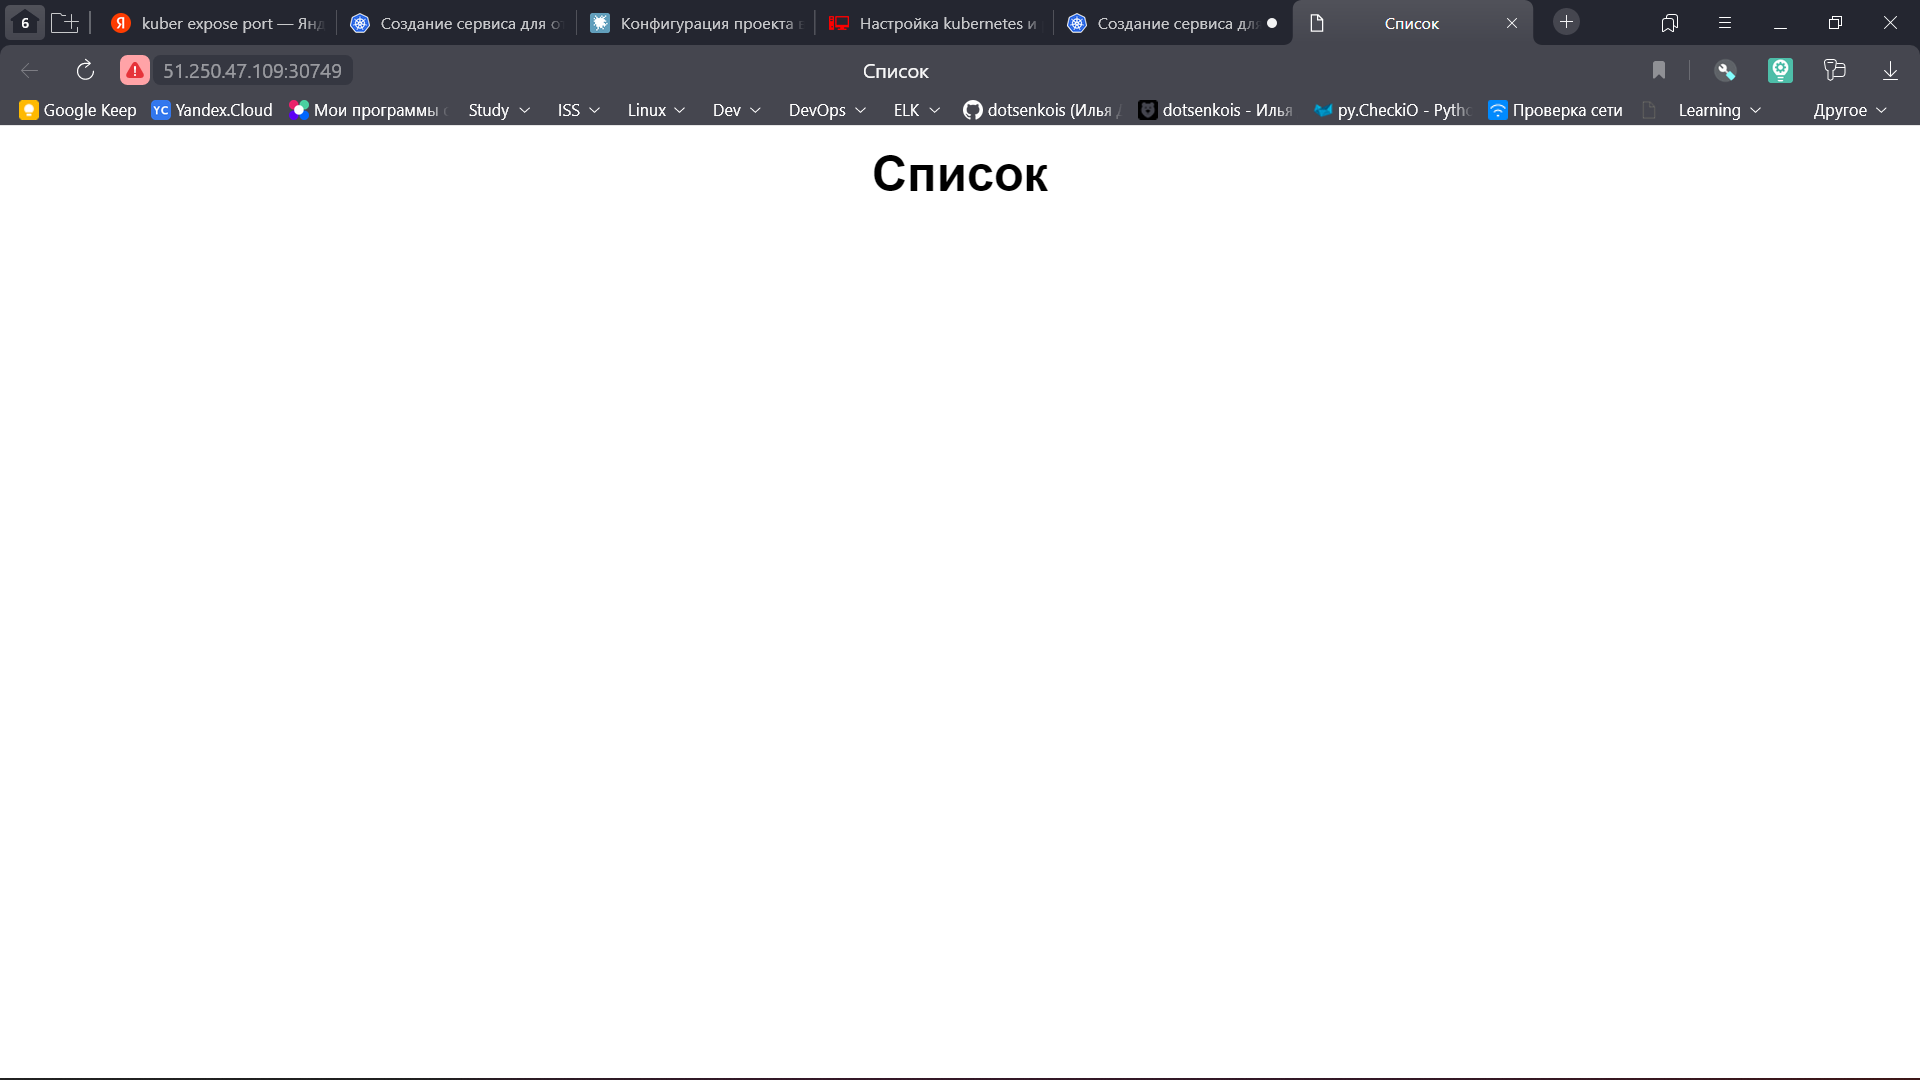
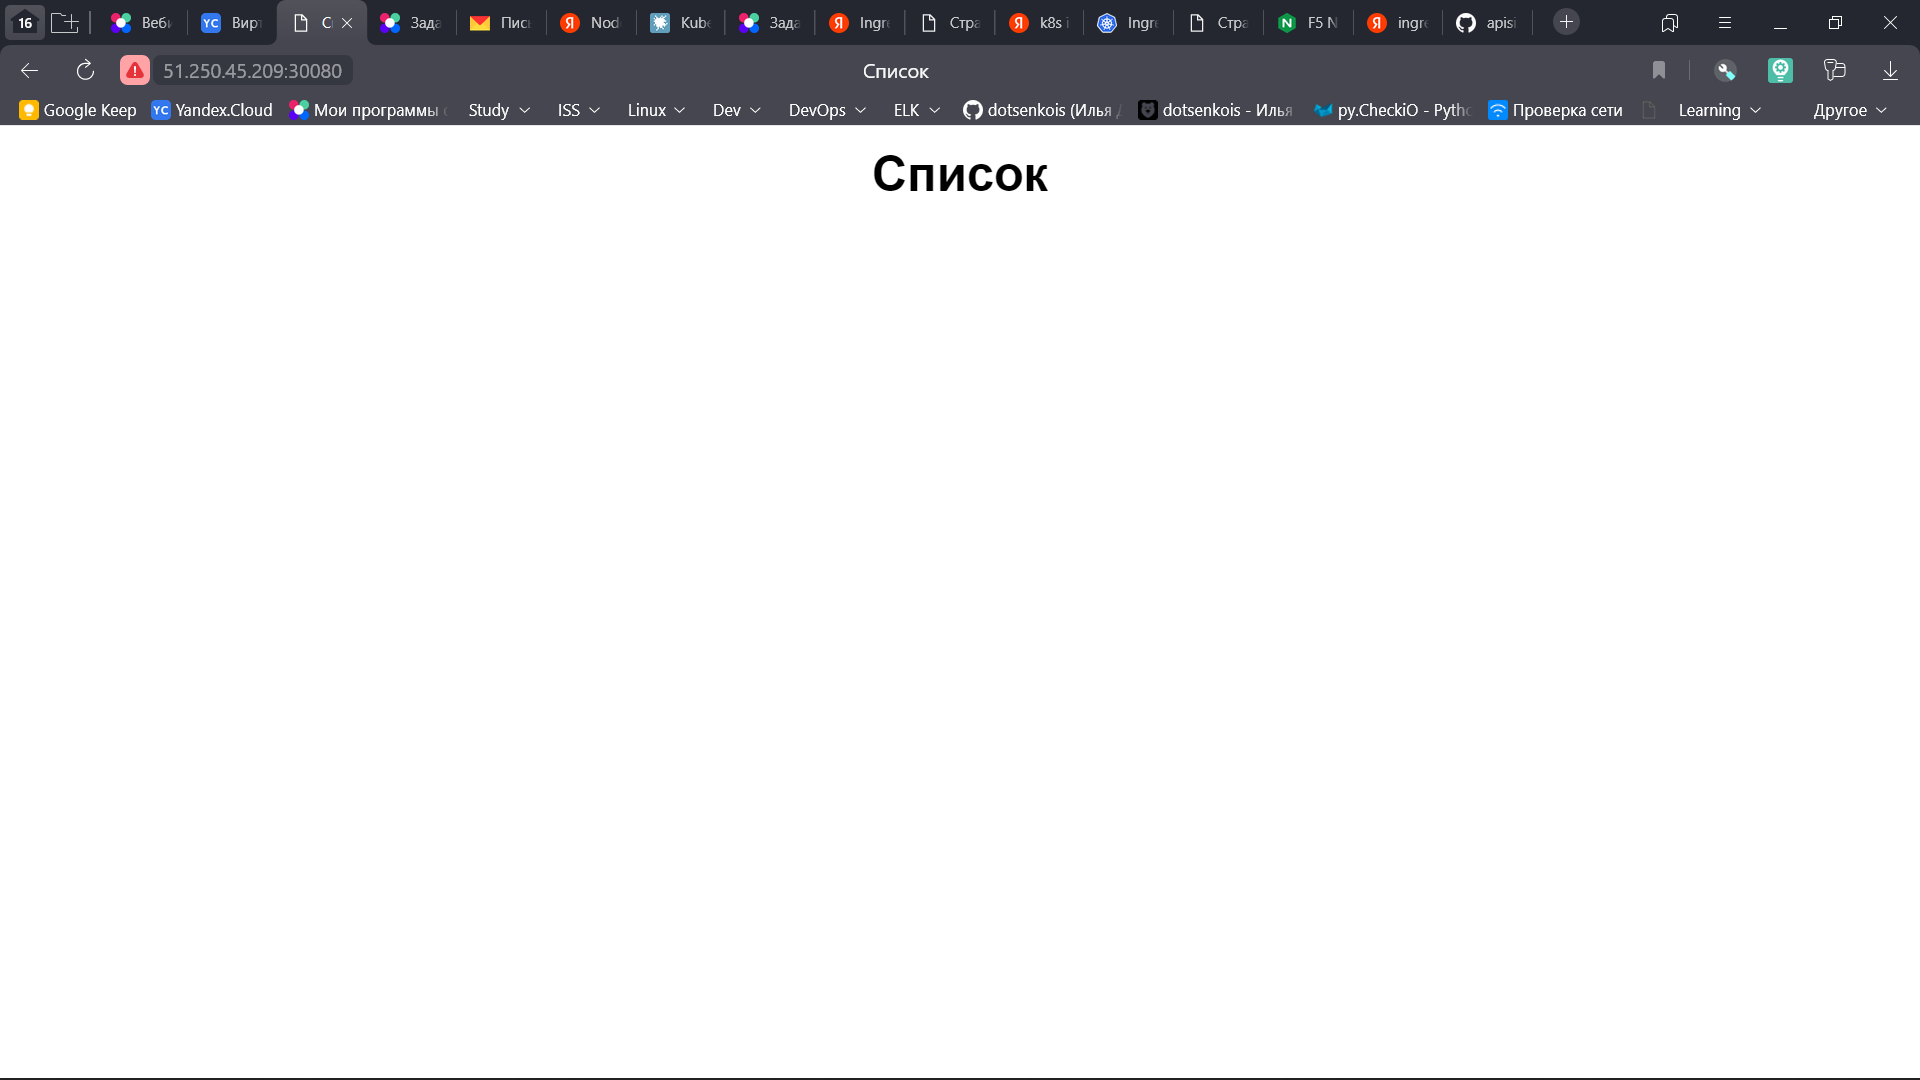
[13-kubernetes-config-01-objects] done

Changed region(s): [[0.0625, 0.0, 0.8125, 0.0611]]

diff --git a/13-kubernetes-config-01-objects/README.md b/13-kubernetes-config-01-objects/README.md
@@ -55,18 +55,19 @@ Events:            <none>
 ```console
 root@control-plane-node-01:~# ./13-1.sh
 NAME                      READY   STATUS    RESTARTS   AGE
-backend-db8cf8d59-rhhkp   1/1     Running   0          68m
-db-0                      1/1     Running   0          66m
-frontend-c6dbbc9c-87h7v   1/1     Running   0          68m
-NAME       TYPE           CLUSTER-IP      EXTERNAL-IP   PORT(S)        AGE
-backend    ClusterIP      10.233.22.180   <none>        9000/TCP       133m
-db         ClusterIP      10.233.61.7     <none>        5432/TCP       66m
-frontend   LoadBalancer   10.233.28.95    <pending>     80:32563/TCP   133m
+backend-db8cf8d59-fjt2l   1/1     Running   0          71m
+db-0                      1/1     Running   0          71m
+frontend-c6dbbc9c-srcdw   1/1     Running   0          71m
+NAME       TYPE        CLUSTER-IP     EXTERNAL-IP   PORT(S)        AGE
+backend    ClusterIP   10.233.46.7    <none>        9000/TCP       71m
+db         ClusterIP   10.233.14.9    <none>        5432/TCP       71m
+frontend   NodePort    10.233.6.213   <none>        80:30080/TCP   71m
 NAME       READY   UP-TO-DATE   AVAILABLE   AGE
-backend    1/1     1            1           133m
-frontend   1/1     1            1           133m
+backend    1/1     1            1           71m
+frontend   1/1     1            1           71m
 NAME   READY   AGE
-db     1/1     66m
+db     1/1     71m
+
 ```
 
 3. endpoint:
@@ -78,21 +79,21 @@ Namespace:                prod
 Labels:                   <none>
 Annotations:              <none>
 Selector:                 app=frontend
-Type:                     LoadBalancer
+Type:                     NodePort
 IP Family Policy:         SingleStack
 IP Families:              IPv4
-IP:                       10.233.28.95
-IPs:                      10.233.28.95
+IP:                       10.233.6.213
+IPs:                      10.233.6.213
 Port:                     web  80/TCP
 TargetPort:               80/TCP
-NodePort:                 web  32563/TCP
-Endpoints:                10.233.78.53:80
+NodePort:                 web  30080/TCP
+Endpoints:                10.233.78.71:80
 Session Affinity:         None
 External Traffic Policy:  Cluster
 Events:
   Type    Reason  Age   From                Message
   ----    ------  ----  ----                -------
-  Normal  Type    22m   service-controller  ClusterIP -> LoadBalancer
+  Normal  Type    33s   service-controller  LoadBalancer -> NodePort
 ```
 ## Скрин
 фронтенд доступен из вне (Правда, не по тому порту, по которому хотелось бы)
